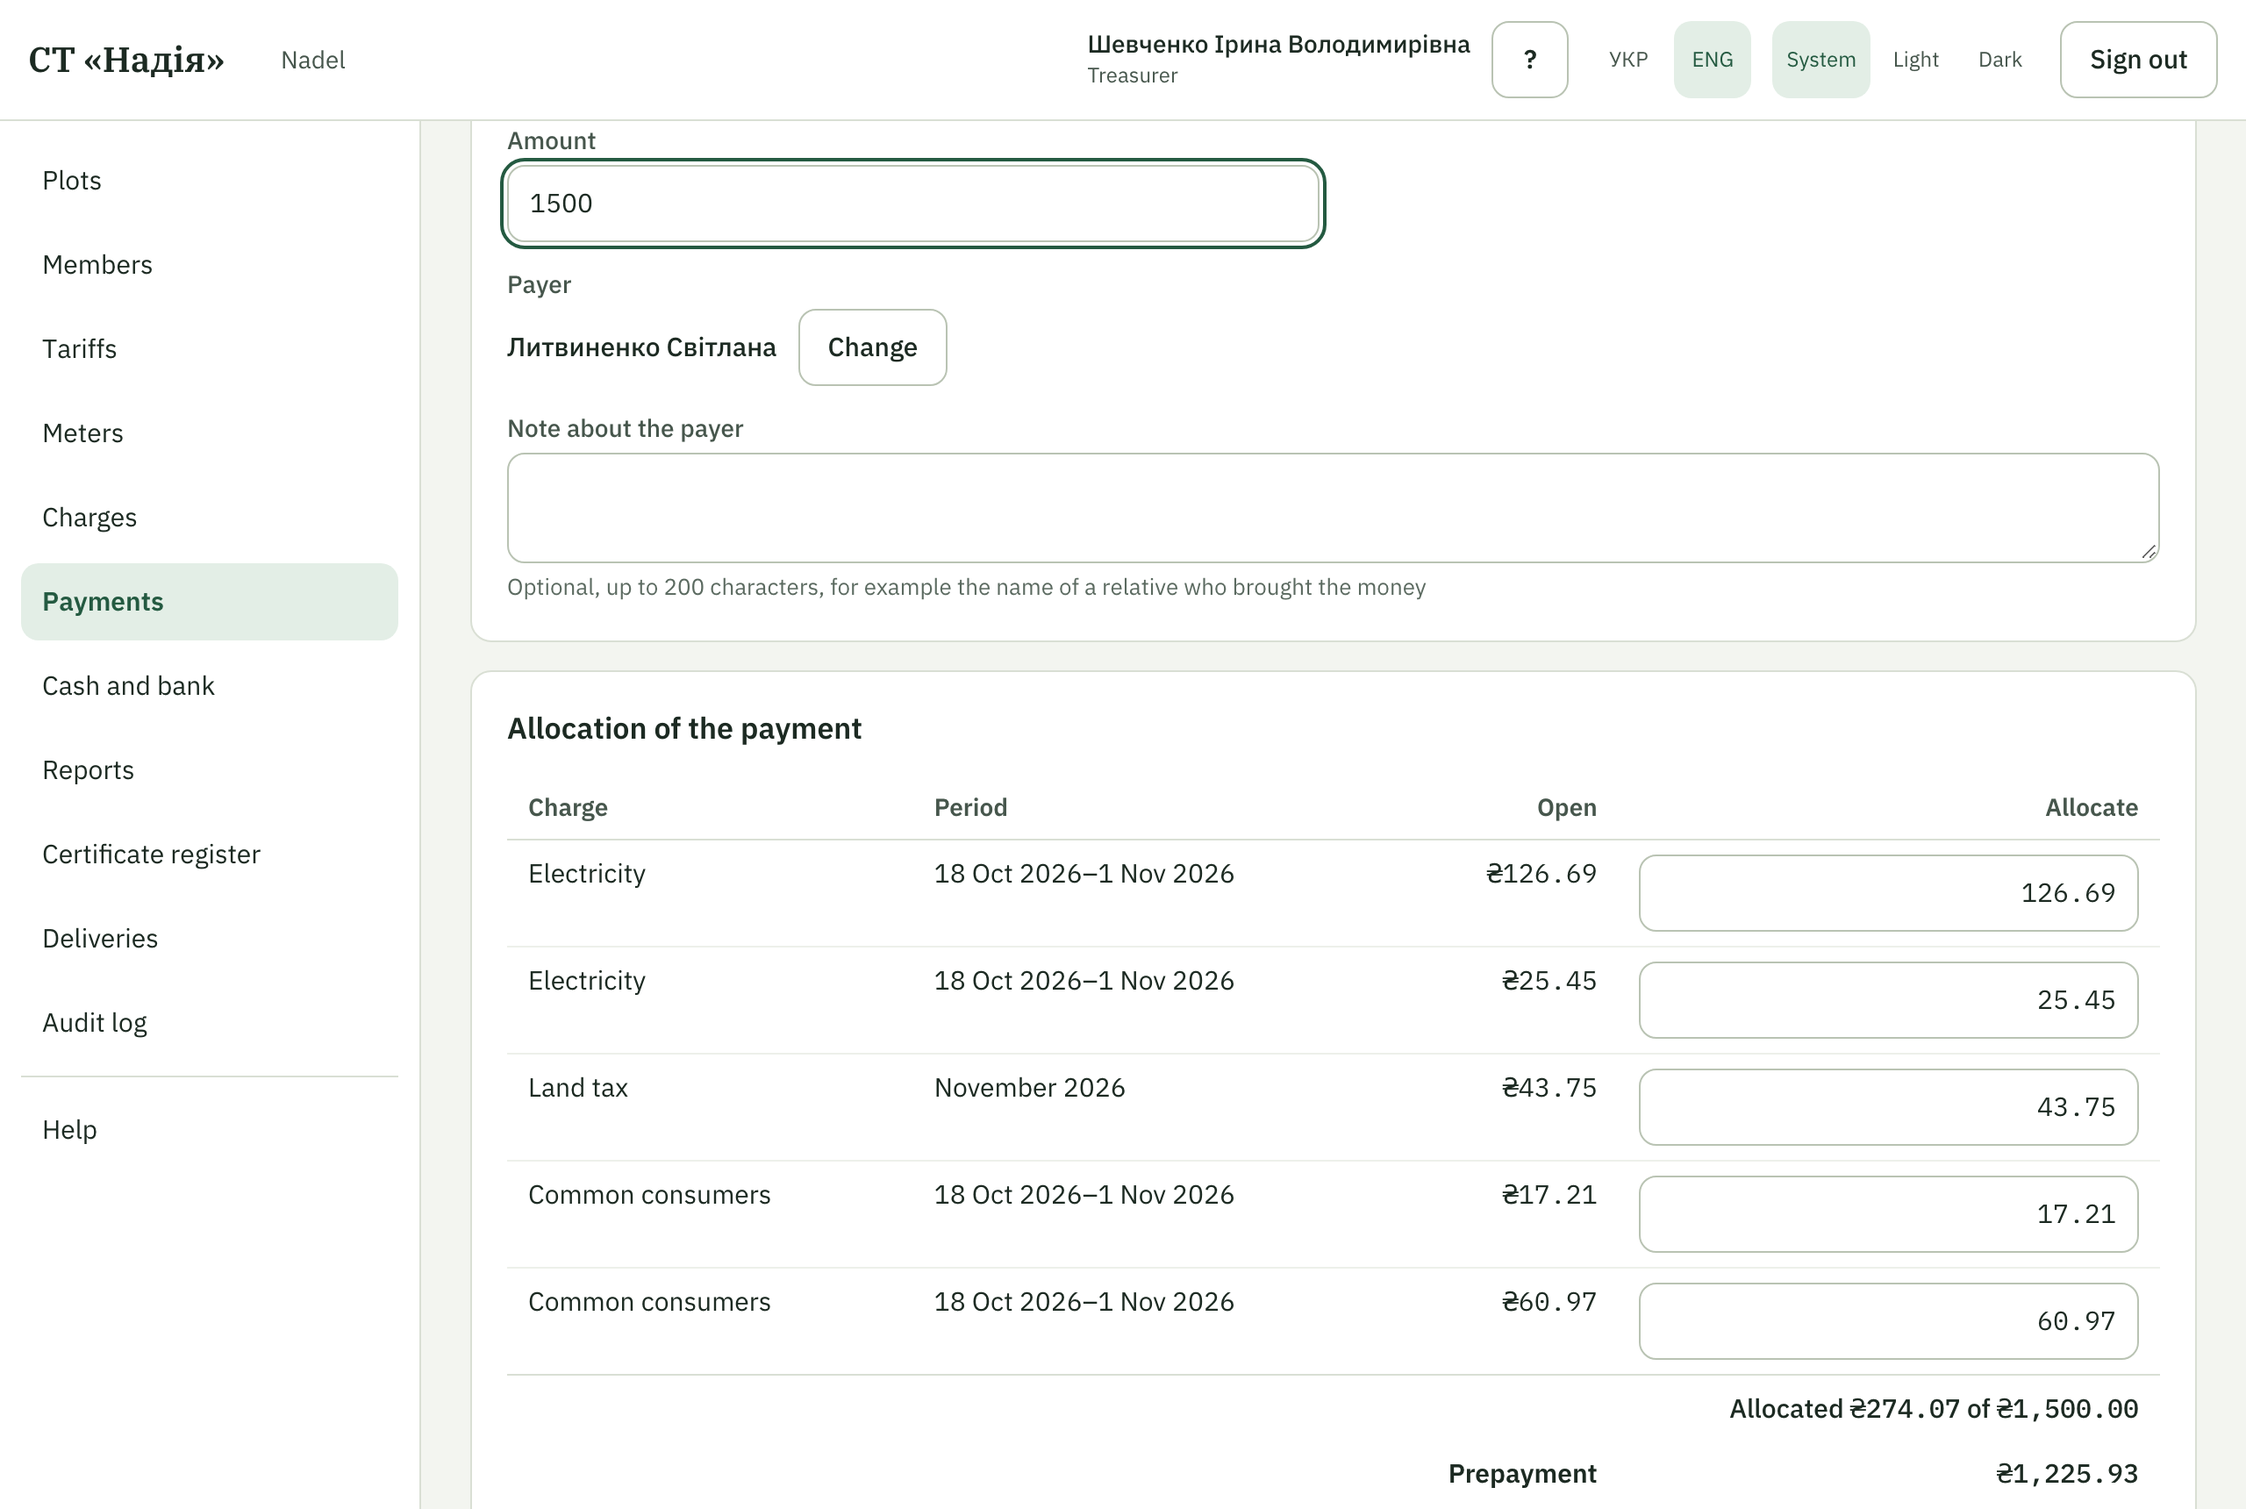
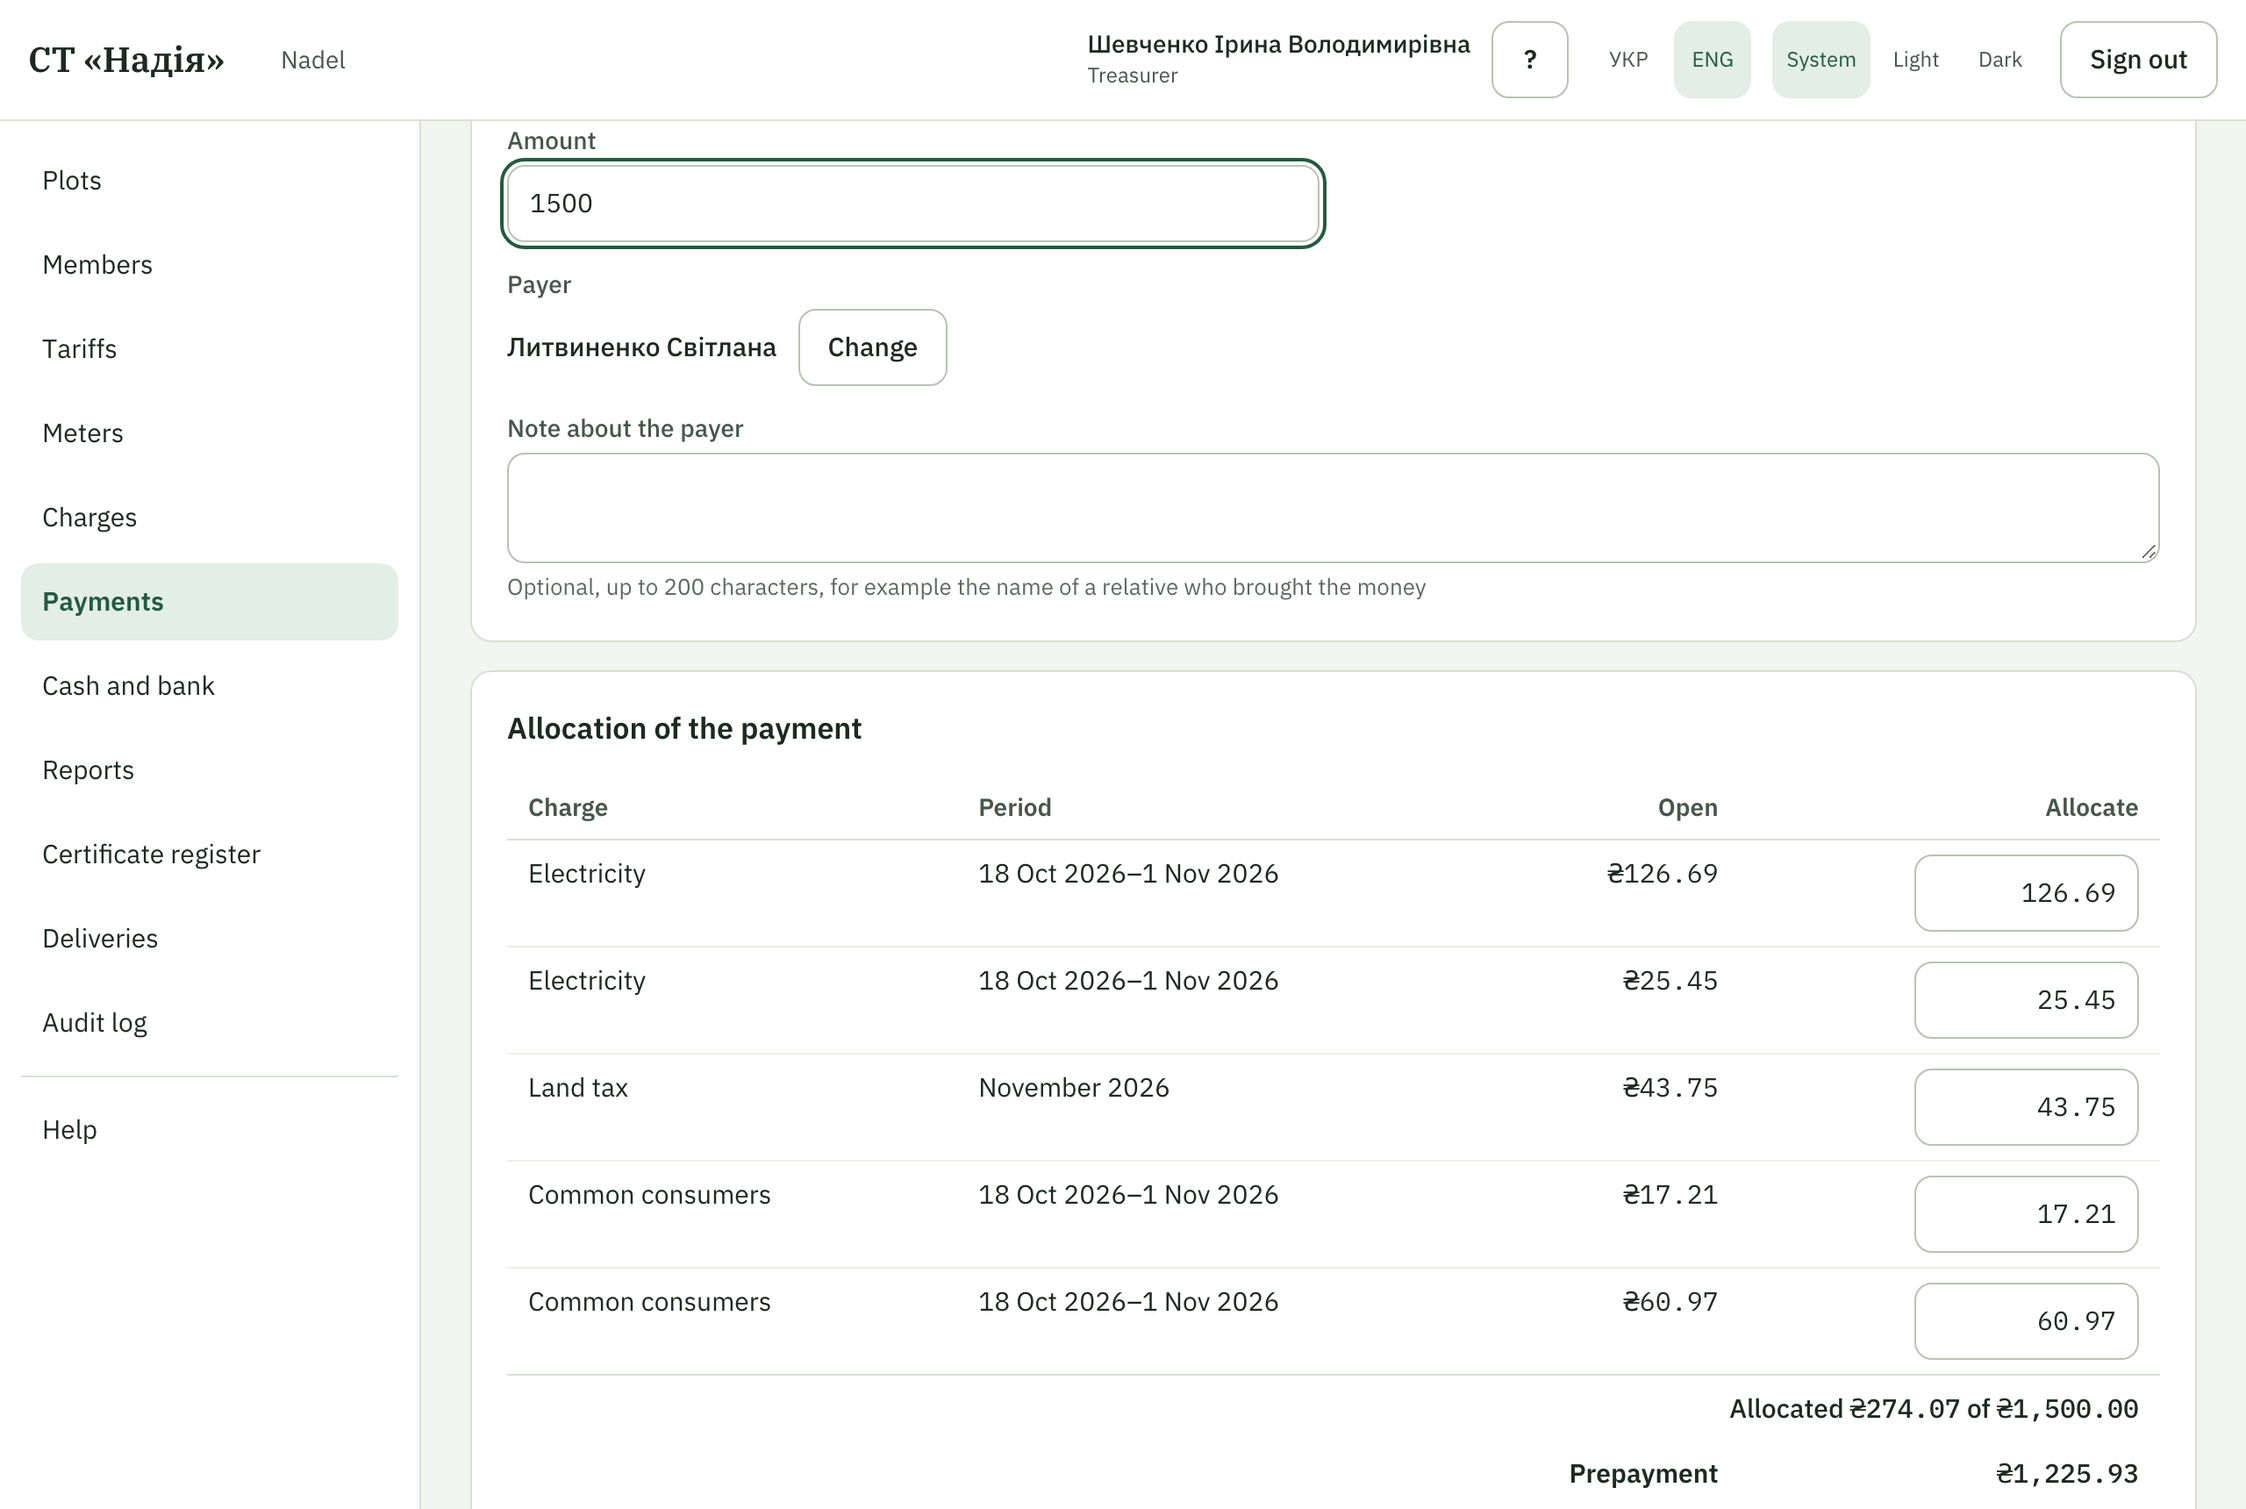
fix(web): allocation lines as cards on narrow screens, total without horizontal scrolling

diff --git a/web/src/components/payments/ProposalTable.tsx b/web/src/components/payments/ProposalTable.tsx
@@ -52,9 +52,9 @@ export function ProposalTable({
   return (
     <div className="flex flex-col gap-3">
       <div className="overflow-x-auto">
-        <table className="w-full border-collapse text-[15px]">
+        <table className="block w-full border-collapse text-[15px] sm:table">
           <caption className="sr-only">{p.caption}</caption>
-          <thead>
+          <thead className="sr-only sm:not-sr-only sm:table-header-group">
             <tr className="border-b border-line text-sm font-semibold text-ink-muted">
               <th scope="col" className="px-3 py-2 text-left">
                 {p.charge}
@@ -70,10 +70,10 @@ export function ProposalTable({
               </th>
             </tr>
           </thead>
-          <tbody>
+          <tbody className="block sm:table-row-group">
             {listed.length === 0 && automatic.length === 0 ? (
-              <tr>
-                <td colSpan={4} className="px-3 py-4 text-center text-ink-muted">
+              <tr className="block sm:table-row">
+                <td colSpan={4} className="block px-3 py-4 text-center sm:table-cell text-ink-muted">
                   {p.empty}
                 </td>
               </tr>
@@ -82,15 +82,32 @@ export function ProposalTable({
                 const period = servicePeriodLabel(line.serviceFrom, line.serviceTo, t, locale);
                 const error = lineErrors[line.chargeId] ?? amountError[line.chargeId];
                 return (
-                  <tr key={line.chargeId} className="border-b border-line-subtle align-top last:border-b-0">
-                    <td className="px-3 py-2">
+                  <tr
+                    key={line.chargeId}
+                    className="block rounded-md border border-line-subtle p-3 mb-2 sm:mb-0 sm:table-row sm:rounded-none sm:border-0 sm:border-b sm:p-0 align-top sm:last:border-b-0"
+                  >
+                    <td
+                      data-label={p.charge}
+                      className="flex items-baseline justify-between gap-3 py-1 before:text-sm before:font-semibold before:text-ink-muted before:content-[attr(data-label)] sm:table-cell sm:px-3 sm:py-2 sm:before:content-none"
+                    >
                       <ChargeTypeName type={line.chargeType} />
                     </td>
-                    <td className="px-3 py-2">{period}</td>
-                    <td className="px-3 py-2 text-right">
+                    <td
+                      data-label={p.period}
+                      className="flex items-baseline justify-between gap-3 py-1 before:text-sm before:font-semibold before:text-ink-muted before:content-[attr(data-label)] sm:table-cell sm:px-3 sm:py-2 sm:before:content-none"
+                    >
+                      {period}
+                    </td>
+                    <td
+                      data-label={p.open}
+                      className="flex items-baseline justify-between gap-3 py-1 before:text-sm before:font-semibold before:text-ink-muted before:content-[attr(data-label)] sm:table-cell sm:px-3 sm:py-2 sm:before:content-none sm:text-right"
+                    >
                       <Money amount={line.open} />
                     </td>
-                    <td className="px-3 py-2 text-right">
+                    <td
+                      data-label={p.allocate}
+                      className="flex flex-col gap-1 py-1 before:text-sm before:font-semibold before:text-ink-muted before:content-[attr(data-label)] sm:table-cell sm:px-3 sm:py-2 sm:text-right sm:before:content-none"
+                    >
                       {error && (
                         <p role="alert" className="mb-1 text-sm text-danger">
                           {error}
@@ -99,7 +116,7 @@ export function ProposalTable({
                       <input
                         type="text"
                         inputMode="decimal"
-                        className={`${controlClass} w-32 text-right font-mono`}
+                        className={`${controlClass} w-full text-right font-mono sm:w-32`}
                         aria-label={format(p.allocateFor, {
                           charge: chargeTypeName(line.chargeType, t),
                           period,
@@ -120,16 +137,30 @@ export function ProposalTable({
               return (
                 <tr
                   key={`auto-${placed.chargeId}`}
-                  className="border-b border-line-subtle align-top last:border-b-0"
+                  className="block rounded-md border border-line-subtle p-3 mb-2 sm:mb-0 sm:table-row sm:rounded-none sm:border-0 sm:border-b sm:p-0 align-top sm:last:border-b-0"
                 >
-                  <td className="px-3 py-2">
+                  <td
+                    data-label={p.charge}
+                    className="flex items-baseline justify-between gap-3 py-1 before:text-sm before:font-semibold before:text-ink-muted before:content-[attr(data-label)] sm:table-cell sm:px-3 sm:py-2 sm:before:content-none"
+                  >
                     <ChargeTypeName type={line.chargeType} />
                   </td>
-                  <td className="px-3 py-2">{period}</td>
-                  <td className="px-3 py-2 text-right">
+                  <td
+                    data-label={p.period}
+                    className="flex items-baseline justify-between gap-3 py-1 before:text-sm before:font-semibold before:text-ink-muted before:content-[attr(data-label)] sm:table-cell sm:px-3 sm:py-2 sm:before:content-none"
+                  >
+                    {period}
+                  </td>
+                  <td
+                    data-label={p.open}
+                    className="flex items-baseline justify-between gap-3 py-1 before:text-sm before:font-semibold before:text-ink-muted before:content-[attr(data-label)] sm:table-cell sm:px-3 sm:py-2 sm:before:content-none sm:text-right"
+                  >
                     <Money amount={line.open} />
                   </td>
-                  <td className="px-3 py-2 text-right">
+                  <td
+                    data-label={p.allocate}
+                    className="flex items-baseline justify-between gap-3 py-1 before:text-sm before:font-semibold before:text-ink-muted before:content-[attr(data-label)] sm:table-cell sm:px-3 sm:py-2 sm:before:content-none sm:text-right"
+                  >
                     <Money amount={placed.amount} />
                     <span className="block text-sm text-ink-muted">{p.automatic}</span>
                   </td>
@@ -137,28 +168,28 @@ export function ProposalTable({
               );
             })}
           </tbody>
-          <tfoot>
-            <tr className="border-t border-line font-medium">
+          <tfoot className="mt-2 block sm:table-footer-group">
+            <tr className="block border-t border-line font-medium sm:table-row">
               <th
                 scope="row"
                 colSpan={4}
-                className="whitespace-nowrap px-3 py-2 text-right text-sm font-medium sm:text-[15px]"
+                className="block px-3 py-2 text-right text-sm font-medium sm:table-cell sm:whitespace-nowrap sm:text-[15px]"
               >
                 {p.allocatedTotal} <Money amount={part.allocatedTotal} /> {p.of}{' '}
                 <Money amount={part.amount} />
               </th>
             </tr>
             {totalError && (
-              <tr>
-                <td colSpan={4} className="px-3 pb-2 text-right">
+              <tr className="block sm:table-row">
+                <td colSpan={4} className="block px-3 pb-2 text-right sm:table-cell">
                   <p role="alert" className="text-sm text-danger">
                     {totalError}
                   </p>
                 </td>
               </tr>
             )}
-            <tr className="font-medium">
-              <th scope="row" colSpan={3} className="px-3 py-2 text-right">
+            <tr className="flex justify-between sm:table-row font-medium">
+              <th scope="row" colSpan={3} className="px-3 py-2 text-left sm:text-right">
                 {p.prepayment}
               </th>
               <td className="px-3 py-2 text-right">
@@ -166,8 +197,11 @@ export function ProposalTable({
               </td>
             </tr>
             {hasAutomatic && (
-              <tr>
-                <td colSpan={4} className="px-3 pb-2 text-right text-sm font-normal text-ink-muted">
+              <tr className="block sm:table-row">
+                <td
+                  colSpan={4}
+                  className="block px-3 pb-2 text-right sm:table-cell text-sm font-normal text-ink-muted"
+                >
                   {p.automaticNote}
                 </td>
               </tr>

diff --git a/web/e2e/go-live-polish-acceptance.spec.ts b/web/e2e/go-live-polish-acceptance.spec.ts
@@ -2,8 +2,8 @@
 // @spec: 020-go-live-polish
 // @regression
 // Acceptance checks of feature 020 that no other spec covers (FS 2.3): on a phone-sized screen (360 px) the payer of a
-// one-owner plot is preselected, "Allocated X of Y" stays on one line, and an amount above the open amount of a line
-// shows "More than the remaining ..." above that amount. The jsdom unit tests cannot measure a layout, so the one-line
+// one-owner plot is preselected, "Allocated X of Y" stays inside the screen without horizontal scrolling, and an amount above the open amount of a line
+// shows "More than the remaining ..." above that amount. The jsdom unit tests cannot measure a layout, so the overflow
 // rule is checked in the browser. The plot, owner and opening balance are created through the API and tidied after.
 import { expect, test, type Page } from '@playwright/test';
 import {
@@ -77,16 +77,23 @@ test.describe('020 payment form on a 360 px screen', () => {
       await expect(phone.getByRole('main')).toContainText(member.lastName);
       await expect(phone.getByRole('button', { name: 'Change', exact: true })).toBeVisible();
 
-      // "Allocated X of Y" is one line: the row is as high as a single line of text
+      // the allocation lines are cards on a phone: no horizontal scrolling, the total is inside the screen
       await phone.getByLabel('Amount', { exact: true }).fill('400.00');
       const proposal = phone.getByRole('table', { name: 'Allocation of the payment to charges' });
       await expect(proposal.getByLabel(/^Amount to allocate:/)).toHaveValue('400.00');
       const total = proposal.getByRole('rowheader', { name: /^Allocated/ });
       await expect(total).toContainText('of');
+      const overflow = await proposal.evaluate((el) => {
+        const area = el.parentElement!;
+        return { scroll: area.scrollWidth, client: area.clientWidth };
+      });
+      expect(overflow.scroll).toBeLessThanOrEqual(overflow.client);
       const box = await total.boundingBox();
-      const lineHeight = await total.evaluate((el) => parseFloat(getComputedStyle(el).lineHeight));
       expect(box).not.toBeNull();
-      expect(box!.height).toBeLessThan(lineHeight * 2);
+      expect(box!.x).toBeGreaterThanOrEqual(0);
+      expect(box!.x + box!.width).toBeLessThanOrEqual(360);
+      const fieldBox = await proposal.getByLabel(/^Amount to allocate:/).boundingBox();
+      expect(fieldBox!.x + fieldBox!.width).toBeLessThanOrEqual(360);
 
       // more than the open amount: the explanation sits above the input
       const input = proposal.getByLabel(/^Amount to allocate:/);

diff --git a/web/src/components/payments/ProposalTable.test.tsx b/web/src/components/payments/ProposalTable.test.tsx
@@ -1,0 +1,72 @@
+import { screen, within } from '@testing-library/react';
+import type { PaymentPartProposal } from '@nadel/api-client';
+import { describe, expect, it, vi } from 'vitest';
+import { renderWithApp } from '../../test/render';
+import { ProposalTable } from './ProposalTable';
+
+const type = { id: 't1', code: 'MEMBERSHIP', name: 'Membership', nameCustomized: false };
+
+const part = {
+  plotId: 'p7',
+  plotNumber: '7',
+  amount: '1000.00',
+  debt: '600.00',
+  lines: [
+    {
+      chargeId: 'c1',
+      kind: 'REGULAR',
+      chargeType: type,
+      billingMonth: '2026-01',
+      serviceFrom: '2026-01-01',
+      serviceTo: '2026-01-28',
+      accruedOn: '2026-01-01',
+      open: '600.00',
+      proposed: '600.00',
+    },
+  ],
+  resultLines: [],
+  allocatedTotal: '600.00',
+  automaticTotal: '0.00',
+  prepayment: '0.00',
+} as PaymentPartProposal;
+
+function renderTable() {
+  return renderWithApp(
+    <ProposalTable
+      part={part}
+      values={null}
+      touched={new Set()}
+      lineErrors={{}}
+      amountError={{}}
+      onEdit={vi.fn()}
+      onAdd={vi.fn()}
+    />,
+  );
+}
+
+describe('ProposalTable layouts', () => {
+  it('is one markup for both layouts: the allocation line turns into a card below the sm breakpoint', () => {
+    renderTable();
+    const input = screen.getByRole('textbox', { name: /^Amount to allocate:/ });
+    expect(input).toHaveValue('600.00');
+    // the input fills the card and is a fixed-width cell of the table from sm up
+    expect(input.className).toContain('w-full');
+    expect(input.className).toContain('sm:w-32');
+    const row = input.closest('tr')!;
+    expect(row.className).toContain('block');
+    expect(row.className).toContain('sm:table-row');
+    // each card line is captioned by its column title, without a second copy of the text in the DOM
+    const labelled = Array.from(row.querySelectorAll('td')).map((td) => td.getAttribute('data-label'));
+    expect(labelled).toHaveLength(4);
+    expect(labelled.every((l) => l !== null && l !== '')).toBe(true);
+  });
+
+  it('keeps the total as a block of its own that may wrap on a phone', () => {
+    renderTable();
+    const total = screen.getByRole('rowheader', { name: /^Allocated/ });
+    expect(within(total).getAllByText(/600/).length).toBeGreaterThan(0);
+    expect(total.className).toContain('block');
+    expect(total.className).toContain('sm:whitespace-nowrap');
+    expect(total.className).not.toMatch(/(^|\s)whitespace-nowrap/);
+  });
+});
